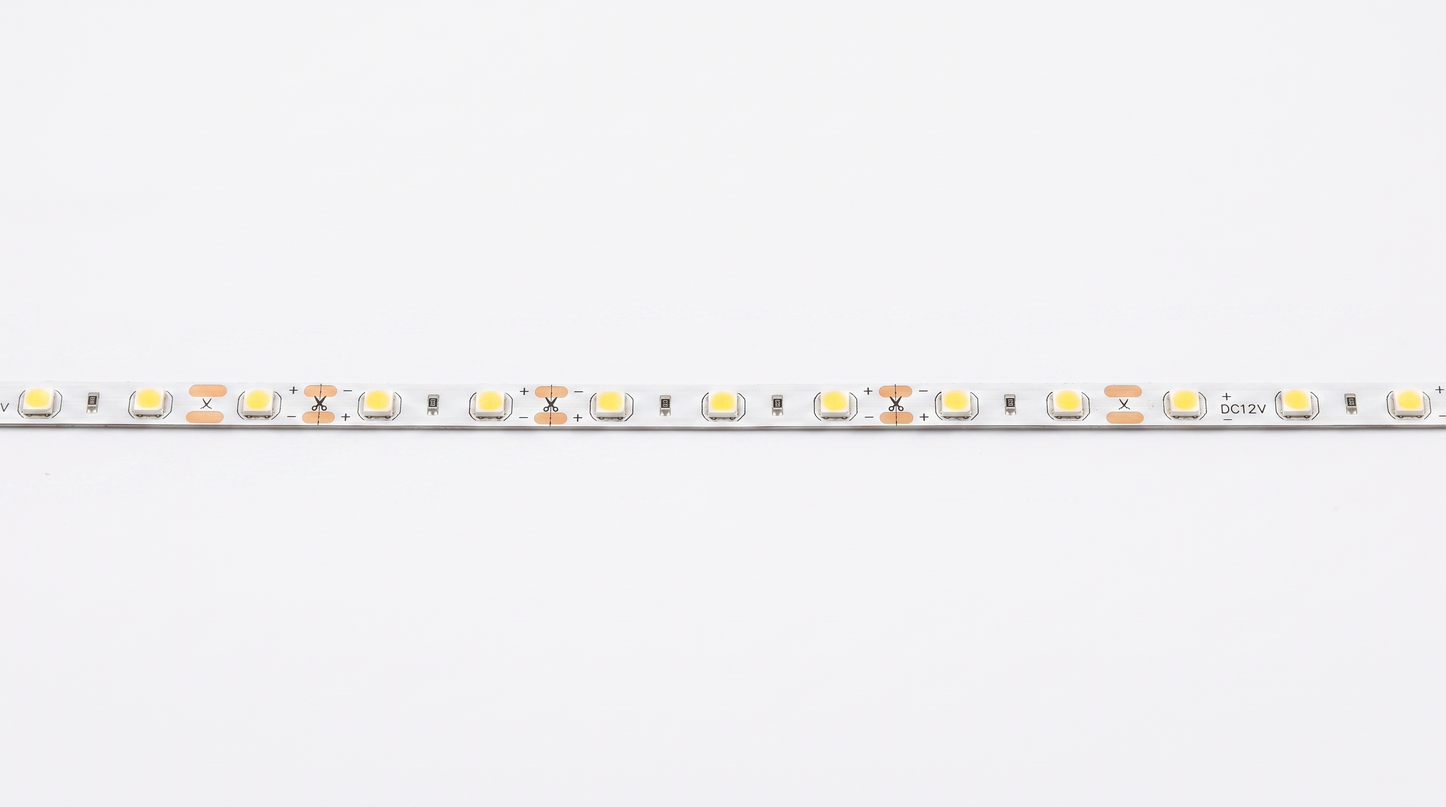
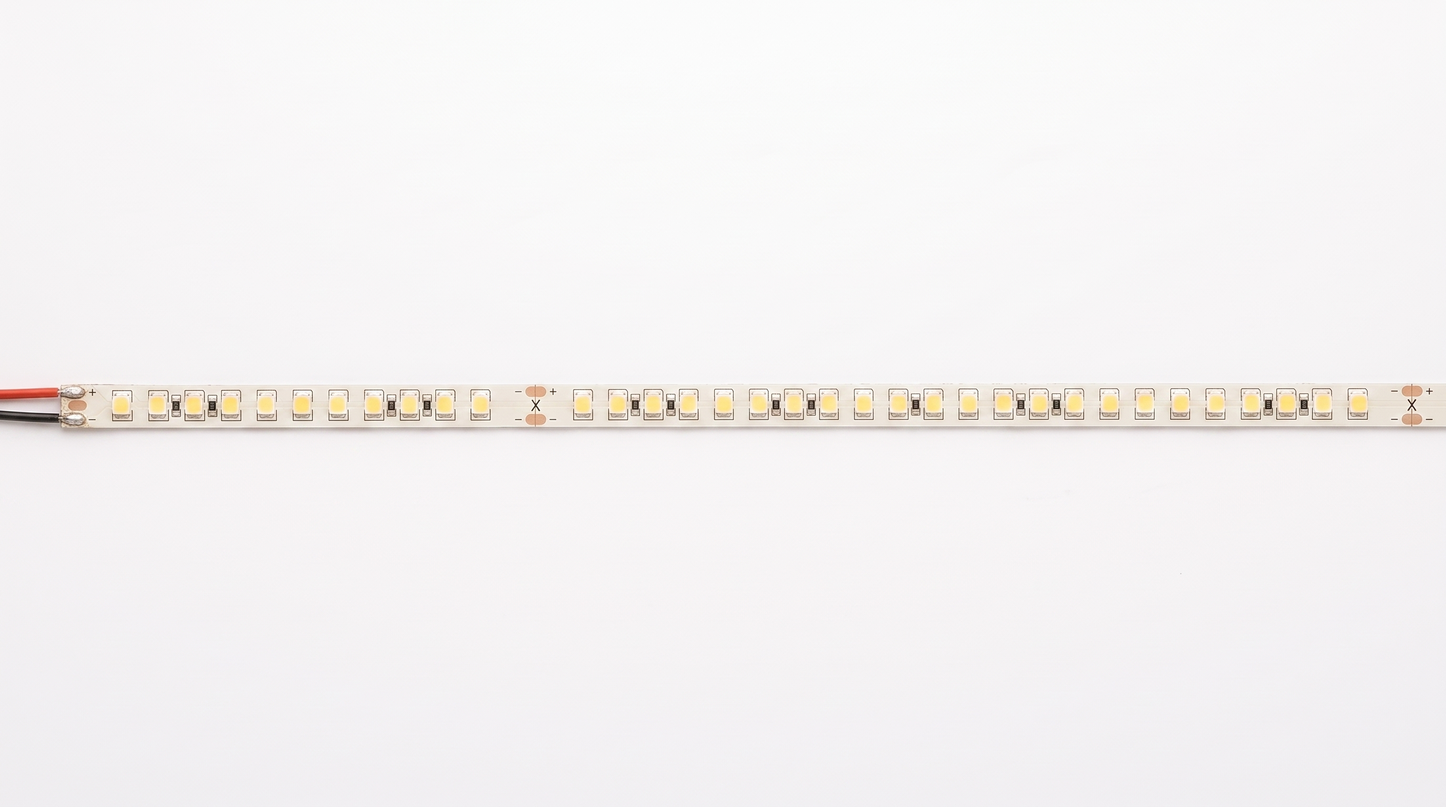
Atualiza fotos de fita LED (3mm 120leds/COB, 5mm 60/120/240leds/COB)
Novo lote de fotos geradas com IA, com polaridade correta, poucas marcas
de corte, sem fio solto e com a marca d'agua "ILUMINIUM BRASIL" impressa
na fita. Substitui as 3 fotos antigas e adiciona 3 novas variantes de 5mm
que ainda usavam a foto generica.

Changed region(s): [[0.0, 0.4688, 1.0, 0.5625]]

diff --git a/produtos/fitas-led.html b/produtos/fitas-led.html
@@ -97,7 +97,7 @@
       <a class="produto-card" href="fitas-led/5mm-60-leds.html">
         <div class="produto-media">
           
-          <img class="produto-photo" src="../images/produto-fitas-led.jpeg" alt="Fita LED 5mm 60 LEDs/m" loading="lazy">
+          <img class="produto-photo" src="../images/produto-fita-5mm-60leds.jpeg" alt="Fita LED 5mm 60 LEDs/m" loading="lazy">
         </div>
         <div class="produto-body">
           <h3>5mm · 60 LEDs/m</h3>
@@ -108,7 +108,7 @@
       <a class="produto-card" href="fitas-led/5mm-120-leds.html">
         <div class="produto-media">
           
-          <img class="produto-photo" src="../images/produto-fitas-led.jpeg" alt="Fita LED 5mm 120 LEDs/m" loading="lazy">
+          <img class="produto-photo" src="../images/produto-fita-5mm-120leds.jpeg" alt="Fita LED 5mm 120 LEDs/m" loading="lazy">
         </div>
         <div class="produto-body">
           <h3>5mm · 120 LEDs/m</h3>
@@ -119,7 +119,7 @@
       <a class="produto-card" href="fitas-led/5mm-240-leds.html">
         <div class="produto-media">
           
-          <img class="produto-photo" src="../images/produto-fitas-led.jpeg" alt="Fita LED 5mm 240 LEDs/m" loading="lazy">
+          <img class="produto-photo" src="../images/produto-fita-5mm-240leds.jpeg" alt="Fita LED 5mm 240 LEDs/m" loading="lazy">
         </div>
         <div class="produto-body">
           <h3>5mm · 240 LEDs/m</h3>

diff --git a/produtos/fitas-led/5mm-120-leds.html b/produtos/fitas-led/5mm-120-leds.html
@@ -13,7 +13,7 @@
 <meta property="og:site_name" content="Iluminium Brasil">
 <meta property="og:title" content="Fita LED 5mm · 120 LEDs/m — Iluminium Brasil">
 <meta property="og:description" content="Fita LED 5mm · 120 LEDs/m — fita de LED da Iluminium Brasil, disponível em 3000K, 4000K e 6000K.">
-<meta property="og:image" content="https://iluminiumbrasil.com.br/images/produto-fitas-led.jpeg">
+<meta property="og:image" content="https://iluminiumbrasil.com.br/images/produto-fita-5mm-120leds.jpeg">
 <link rel="preconnect" href="https://fonts.googleapis.com">
 <link rel="preconnect" href="https://fonts.gstatic.com" crossorigin>
 <link href="https://fonts.googleapis.com/css2?family=Fraunces:ital,wght@0,400;0,500;0,600;1,400;1,500&family=Manrope:wght@400;500;600;700&family=IBM+Plex+Mono:wght@500&display=swap" rel="stylesheet">
@@ -57,7 +57,7 @@
 
 <main>
 <section class="produto-banner">
-  <img src="../../images/produto-fitas-led.jpeg" alt="Fita LED 5mm 120 LEDs/m">
+  <img src="../../images/produto-fita-5mm-120leds.jpeg" alt="Fita LED 5mm 120 LEDs/m">
 </section>
 
 <section class="produto-detalhe">

diff --git a/produtos/fitas-led/5mm-240-leds.html b/produtos/fitas-led/5mm-240-leds.html
@@ -13,7 +13,7 @@
 <meta property="og:site_name" content="Iluminium Brasil">
 <meta property="og:title" content="Fita LED 5mm · 240 LEDs/m — Iluminium Brasil">
 <meta property="og:description" content="Fita LED 5mm · 240 LEDs/m — fita de LED da Iluminium Brasil, disponível em 3000K, 4000K e 6000K.">
-<meta property="og:image" content="https://iluminiumbrasil.com.br/images/produto-fitas-led.jpeg">
+<meta property="og:image" content="https://iluminiumbrasil.com.br/images/produto-fita-5mm-240leds.jpeg">
 <link rel="preconnect" href="https://fonts.googleapis.com">
 <link rel="preconnect" href="https://fonts.gstatic.com" crossorigin>
 <link href="https://fonts.googleapis.com/css2?family=Fraunces:ital,wght@0,400;0,500;0,600;1,400;1,500&family=Manrope:wght@400;500;600;700&family=IBM+Plex+Mono:wght@500&display=swap" rel="stylesheet">
@@ -57,7 +57,7 @@
 
 <main>
 <section class="produto-banner">
-  <img src="../../images/produto-fitas-led.jpeg" alt="Fita LED 5mm 240 LEDs/m">
+  <img src="../../images/produto-fita-5mm-240leds.jpeg" alt="Fita LED 5mm 240 LEDs/m">
 </section>
 
 <section class="produto-detalhe">

diff --git a/produtos/fitas-led/5mm-60-leds.html b/produtos/fitas-led/5mm-60-leds.html
@@ -13,7 +13,7 @@
 <meta property="og:site_name" content="Iluminium Brasil">
 <meta property="og:title" content="Fita LED 5mm · 60 LEDs/m — Iluminium Brasil">
 <meta property="og:description" content="Fita LED 5mm · 60 LEDs/m — fita de LED da Iluminium Brasil, disponível em 3000K, 4000K e 6000K.">
-<meta property="og:image" content="https://iluminiumbrasil.com.br/images/produto-fitas-led.jpeg">
+<meta property="og:image" content="https://iluminiumbrasil.com.br/images/produto-fita-5mm-60leds.jpeg">
 <link rel="preconnect" href="https://fonts.googleapis.com">
 <link rel="preconnect" href="https://fonts.gstatic.com" crossorigin>
 <link href="https://fonts.googleapis.com/css2?family=Fraunces:ital,wght@0,400;0,500;0,600;1,400;1,500&family=Manrope:wght@400;500;600;700&family=IBM+Plex+Mono:wght@500&display=swap" rel="stylesheet">
@@ -57,7 +57,7 @@
 
 <main>
 <section class="produto-banner">
-  <img src="../../images/produto-fitas-led.jpeg" alt="Fita LED 5mm 60 LEDs/m">
+  <img src="../../images/produto-fita-5mm-60leds.jpeg" alt="Fita LED 5mm 60 LEDs/m">
 </section>
 
 <section class="produto-detalhe">
